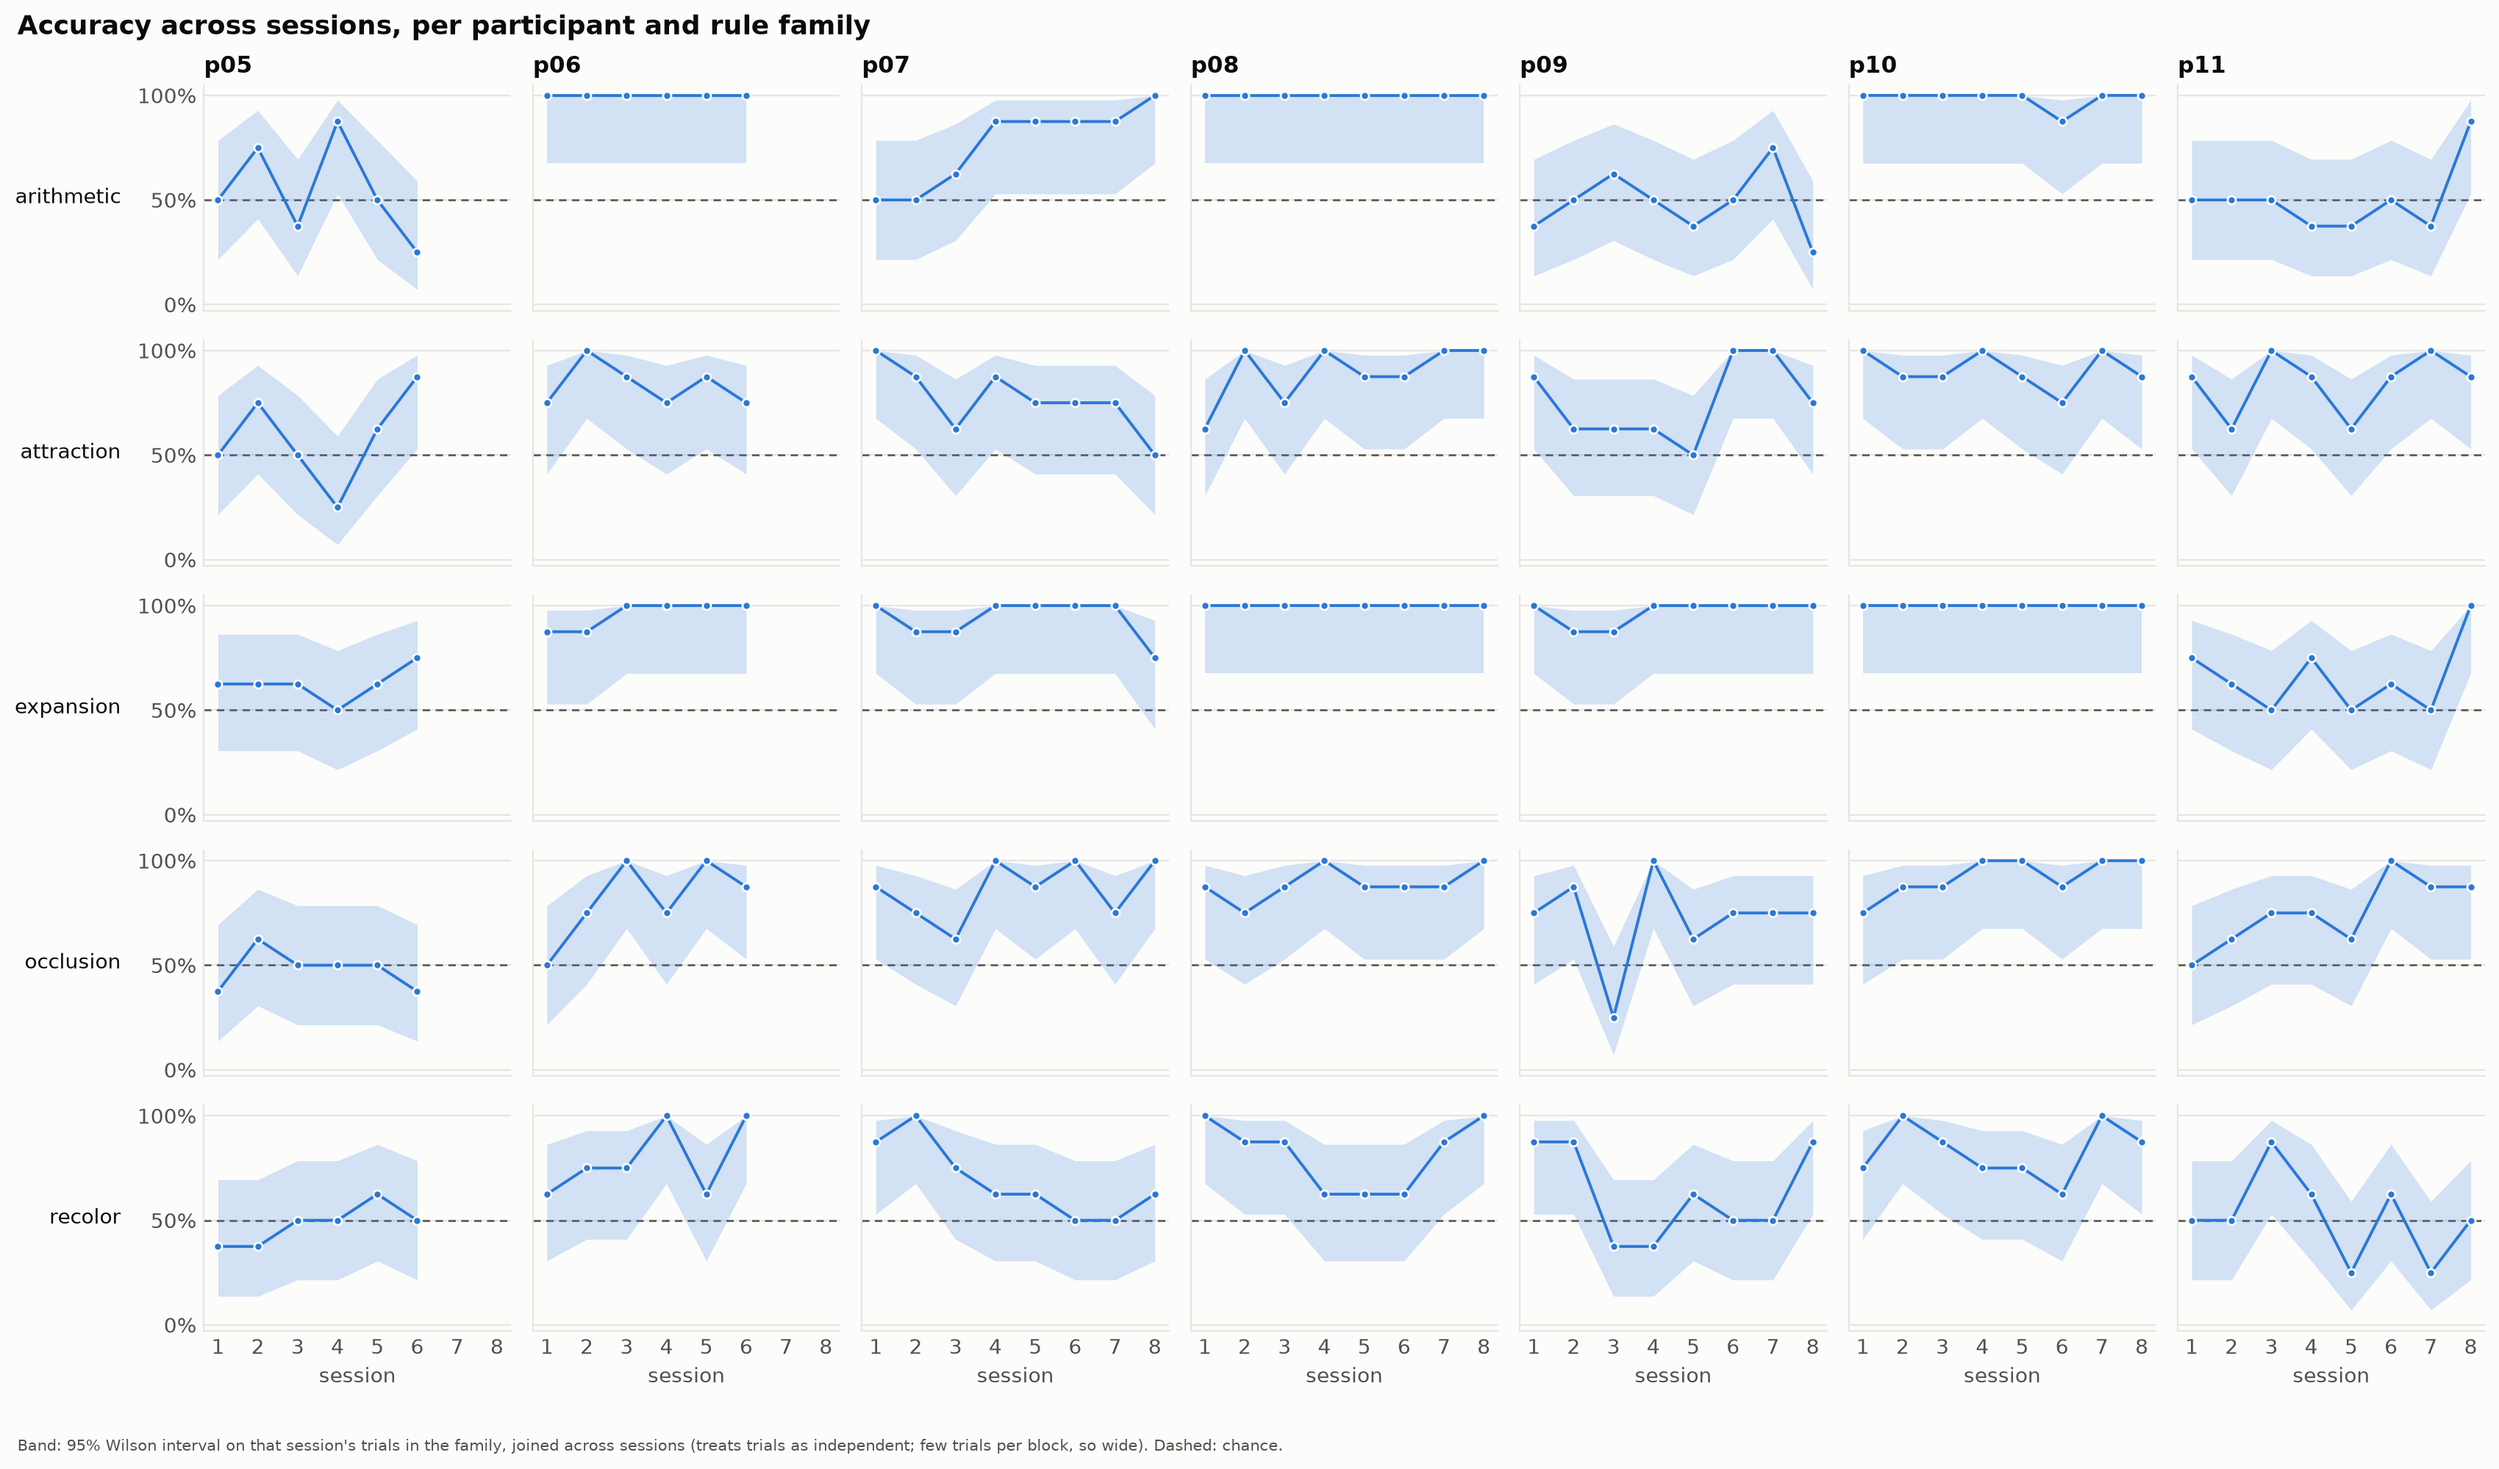
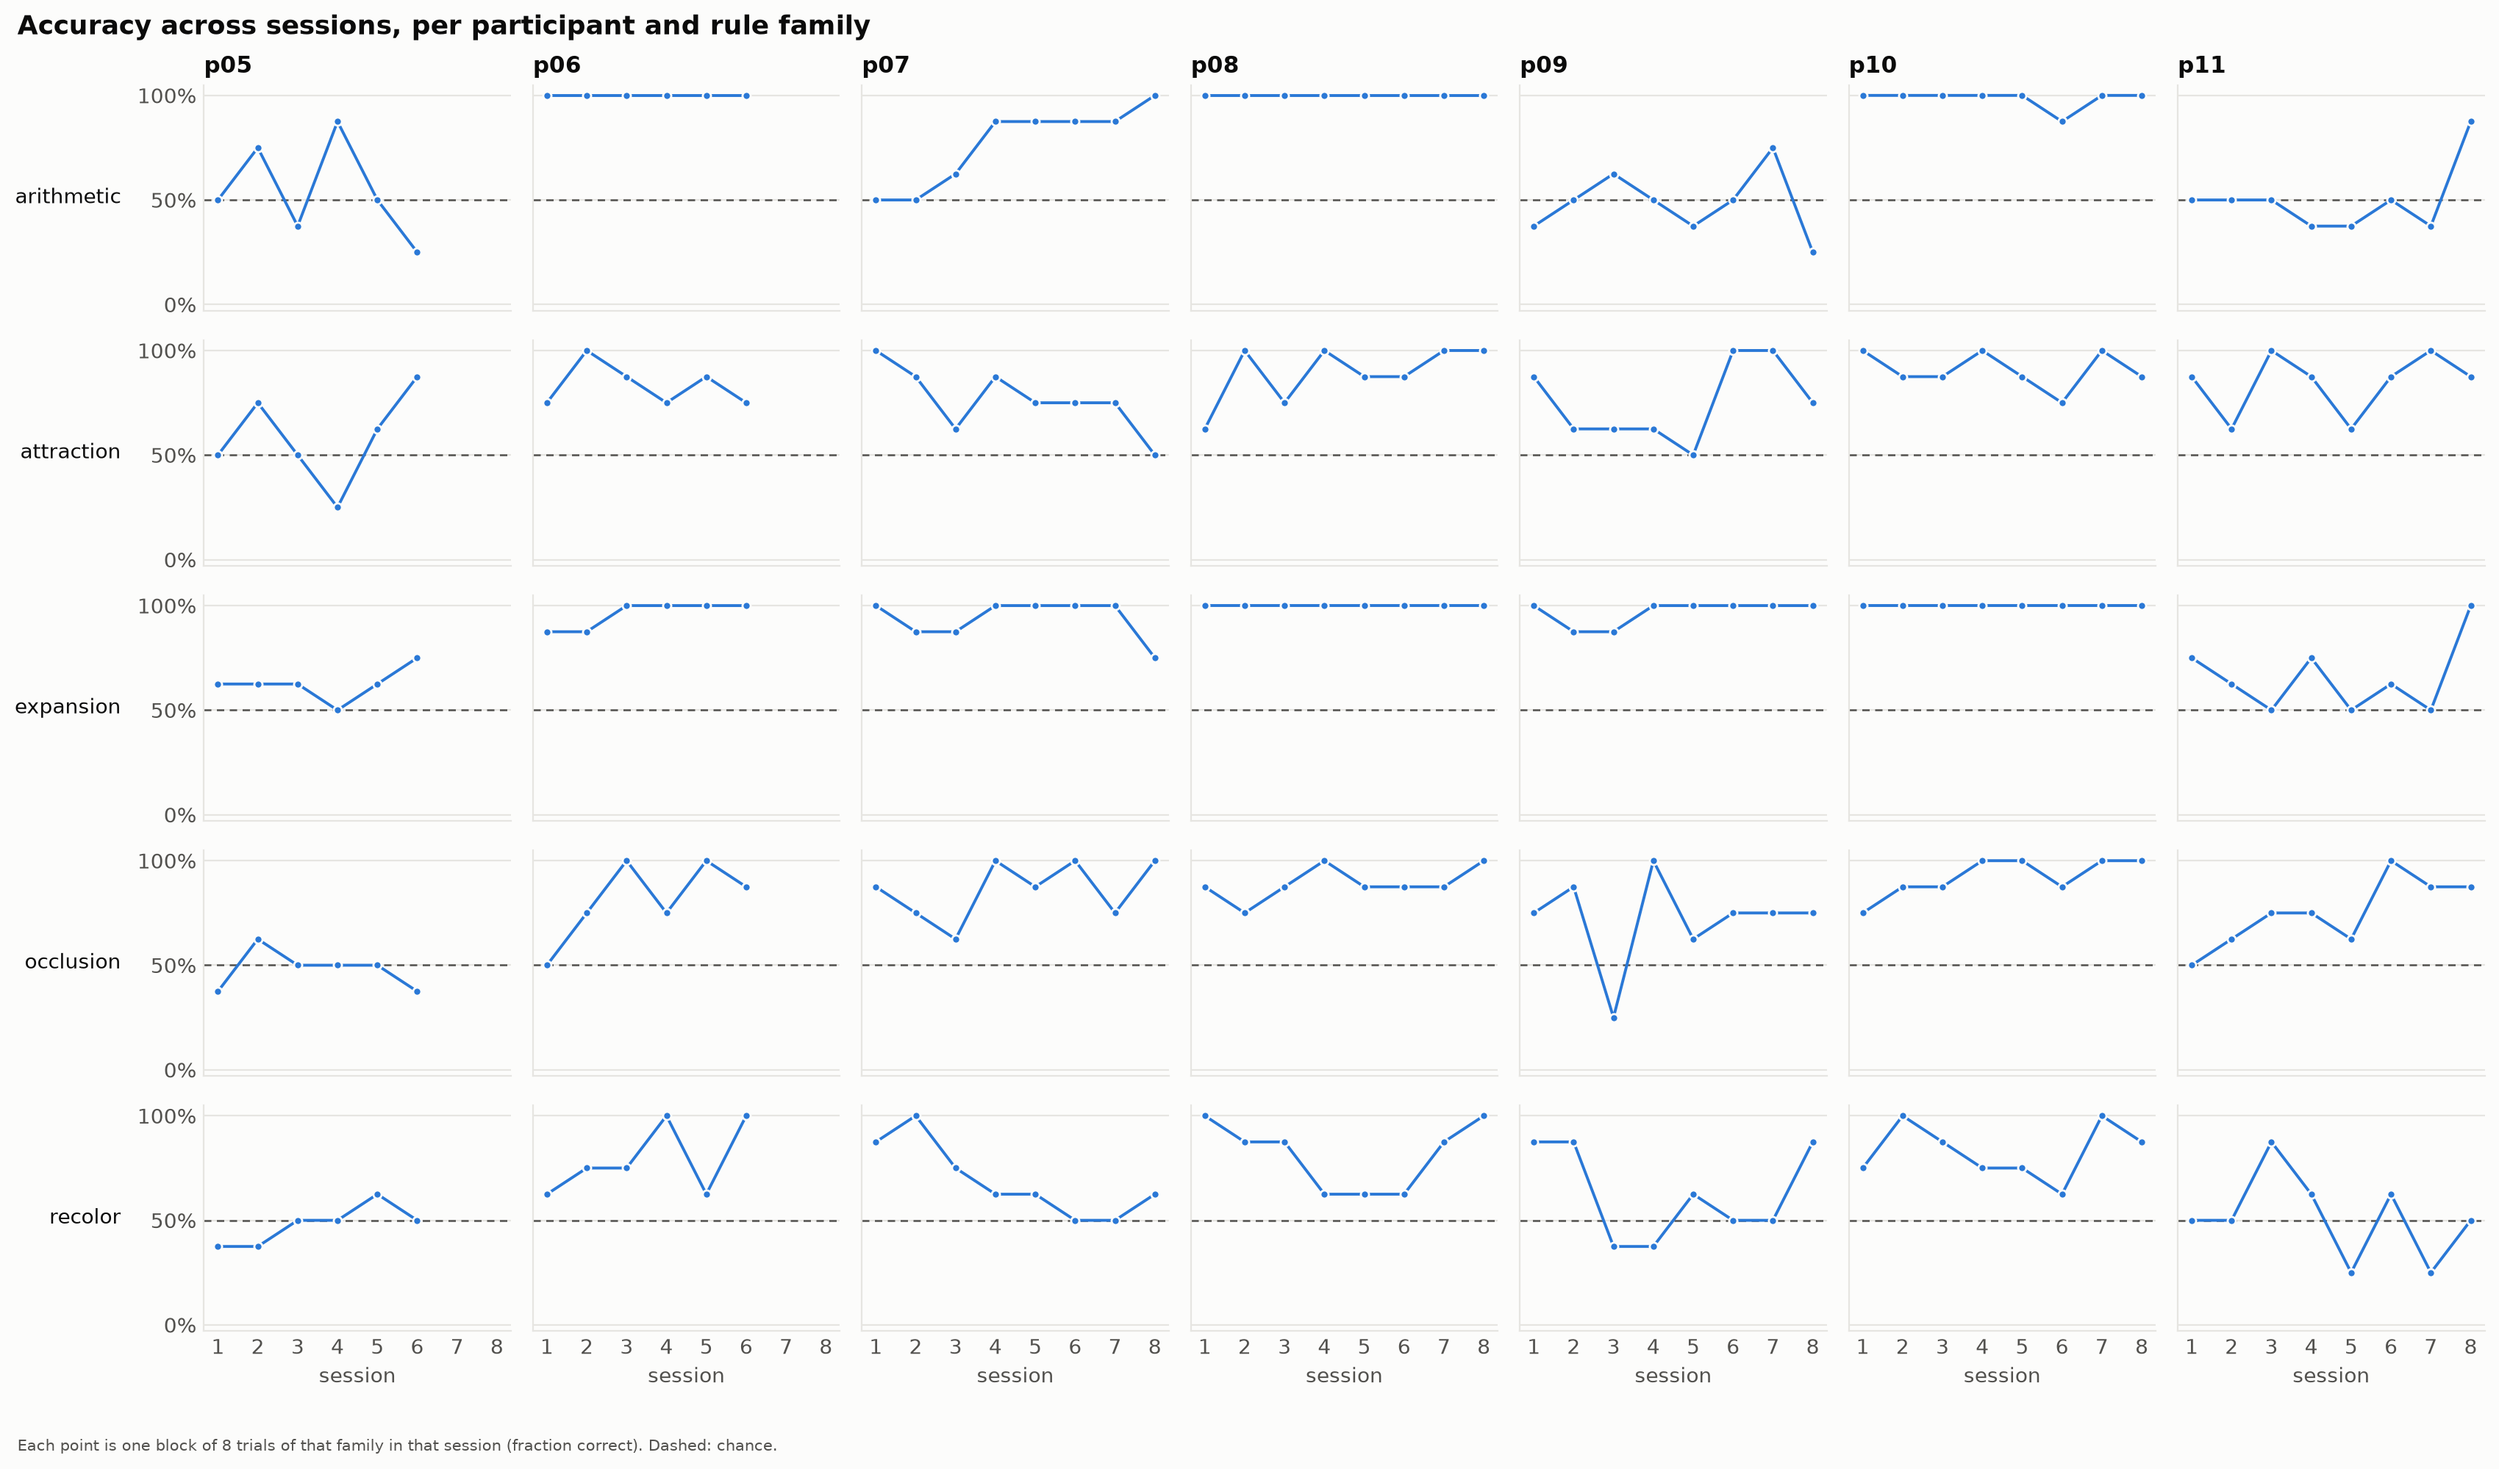
new plots arrived

diff --git a/analysis/behavior/plots.py b/analysis/behavior/plots.py
@@ -8,7 +8,7 @@ File names:  <scope>_<metric>_by_<x>[_family].png
   scope   group    one value per participant, summarised ACROSS participants
           subject  one panel / bar / row per participant
   metric  accuracy | rt (reaction time)
-  x       overall | session | session_family | family | rule
+  x       overall | session | session_family | family (accuracy only) | rule (accuracy only)
  
 Confidence intervals
   group plots      mean +- t-interval across participants (participant = unit)
@@ -31,7 +31,6 @@ import matplotlib.patheffects as pe
 import matplotlib.pyplot as plt
 import numpy as np
 import pandas as pd
-from matplotlib.colors import LinearSegmentedColormap
 from matplotlib.lines import Line2D
 from matplotlib.transforms import blended_transform_factory
 from scipy import stats
@@ -45,8 +44,6 @@ FAMILY_ORDER = ["arithmetic", "attraction", "expansion", "occlusion", "recolor"]
 SURFACE, INK, INK2, GRID = "#fcfcfb", "#0b0b0b", "#52514e", "#e6e5e1"
 BLUE = "#2a78d6"    # accuracy
 ORANGE = "#eb6834"  # reaction time
-SEQ_BLUE = ["#cde2fb", "#9ec5f4", "#6da7ec", "#3987e5", "#256abf", "#184f95", "#0d366b"]
-CMAP = LinearSegmentedColormap.from_list("seq_blue", SEQ_BLUE)
 DASH = (0, (4, 3))
 LEGEND_STYLE = dict(frameon=False, labelcolor=INK2, fontsize=8.5, handlelength=1.8, columnspacing=1.2)
  
@@ -194,12 +191,13 @@ def pct_axis(ax, low: float = 0.0, step: float = 0.25, ylim: tuple[float, float]
  
 def band_line(ax, x, y, lo, hi, color, *, line_width=2.0, marker_size=5.0, edge_width=1.2,
               ceiling=None) -> None:
-    """A line with markers and a filled band joining the lower and upper interval ends."""
-    lo = np.maximum(np.asarray(lo, float), 0)
-    hi = np.asarray(hi, float)
-    if ceiling is not None:
-        hi = np.minimum(hi, ceiling)
-    ax.fill_between(x, lo, hi, color=color, alpha=0.2, linewidth=0, zorder=2)
+    """A line with markers; with `lo`/`hi`, also a filled band joining the interval ends."""
+    if lo is not None:
+        lo = np.maximum(np.asarray(lo, float), 0)
+        hi = np.asarray(hi, float)
+        if ceiling is not None:
+            hi = np.minimum(hi, ceiling)
+        ax.fill_between(x, lo, hi, color=color, alpha=0.2, linewidth=0, zorder=2)
     ax.plot(x, y, color=color, linewidth=line_width, marker="o", markersize=marker_size,
             markeredgecolor=SURFACE, markeredgewidth=edge_width, zorder=3)
  
@@ -337,9 +335,9 @@ def plot_group_sessions(table: pd.DataFrame, metric: Metric, out: Path, by_famil
 # --------------------------------------------------------------------------- #
 def plot_subject_sessions(table: pd.DataFrame, metric: Metric, out: Path, fname: str, note: str,
                           by_family: bool = False) -> None:
-    """One value per session with its 95 % interval ends joined into a band.
- 
-    Default: one panel per participant. `by_family`: participants as columns, rule families as rows.
+    """One value per session. Default: one panel per participant with its 95 % interval joined
+    into a band. `by_family`: participants as columns, rule families as rows, plain points
+    (one block of 8 trials each, so an interval would add nothing).
     """
     participants = sorted(table["participant"].unique())
     families = family_list(table) if by_family else [None]
@@ -367,7 +365,8 @@ def plot_subject_sessions(table: pd.DataFrame, metric: Metric, out: Path, fname:
         one = one.sort_values("session")
         if metric.is_pct:
             add_chance_line(ax, 0.9 if by_family else 1.0)
-        band_line(ax, one["session"], one[metric.value], one[metric.lo], one[metric.hi], metric.color,
+        band = None if by_family else (one[metric.lo], one[metric.hi])
+        band_line(ax, one["session"], one[metric.value], *(band or (None, None)), metric.color,
                   ceiling=1.0 if metric.is_pct else None, **style)
         style_axes(ax)
         if family is None or family == families[0]:
@@ -382,7 +381,7 @@ def plot_subject_sessions(table: pd.DataFrame, metric: Metric, out: Path, fname:
         else:
             pct_axis(first, low=0.25)
     else:
-        first.set_ylim(0, np.nanmax(table[metric.hi]) * 1.08)
+        first.set_ylim(0, np.nanmax(table[metric.value if by_family else metric.hi]) * 1.08)
     first.set_xticks(range(1, int(table["session"].max()) + 1))
     for ax in axes[-1]:
         ax.set_xlabel("session")
@@ -395,8 +394,10 @@ def plot_subject_sessions(table: pd.DataFrame, metric: Metric, out: Path, fname:
  
  
 WILSON_NOTE = "Band: 95% Wilson interval on that session's trials (treats trials as independent). Dashed: chance."
-WILSON_FAMILY_NOTE = ("Band: 95% Wilson interval on that session's trials in the family, joined across sessions "
-                      "(treats trials as independent; few trials per block, so wide). Dashed: chance.")
+FAMILY_BLOCK_NOTE = {
+    "accuracy": "Each point is one block of 8 trials of that family in that session (fraction correct). Dashed: chance.",
+    "rt": "Each point is one block of 8 trials of that family in that session (median RT of answered trials).",
+}
 BOOTSTRAP_NOTE = "Band: 95% bootstrap interval of the median over that session's answered trials."
  
  
@@ -448,53 +449,6 @@ def plot_group_accuracy_by_family(table: pd.DataFrame, out: Path) -> None:
     ], loc="lower left", ncol=3, bbox_to_anchor=(0.0, -0.2), **{**LEGEND_STYLE, "fontsize": 9})
     ax.set_title("Accuracy by rule family", pad=10)
     finish(fig, out, "group_accuracy_by_family.png", rect=(0, 0, 1, 1))
- 
- 
-# --------------------------------------------------------------------------- #
-# subject_rt_by_family.png (heatmap)                                          #
-# --------------------------------------------------------------------------- #
-def text_color_on(value: float, vmin: float, vmax: float) -> str:
-    """White ink on dark cells, dark ink on light cells."""
-    return "white" if (value - vmin) / (vmax - vmin) > 0.55 else INK
- 
- 
-def draw_heatmap(ax, matrix: pd.DataFrame, vmin: float, vmax: float, fmt, fontsize: int = 10):
-    data = np.ma.masked_invalid(matrix.values.astype(float))
-    cmap = CMAP.copy()
-    cmap.set_bad(SURFACE)
-    image = ax.imshow(data, cmap=cmap, vmin=vmin, vmax=vmax, aspect="auto")
-    n_rows, n_cols = matrix.shape
-    ax.set_xticks(range(n_cols), matrix.columns)
-    ax.set_yticks(range(n_rows), matrix.index)
-    ax.tick_params(length=0)
-    for spine in ax.spines.values():
-        spine.set_visible(False)
-    ax.set_xticks(np.arange(-0.5, n_cols), minor=True)  # 2px gaps between cells
-    ax.set_yticks(np.arange(-0.5, n_rows), minor=True)
-    ax.grid(which="minor", color=SURFACE, linewidth=2)
-    ax.tick_params(which="minor", length=0)
-    for i in range(n_rows):
-        for j in range(n_cols):
-            v = matrix.values[i, j]
-            if np.isnan(v):
-                ax.text(j, i, "–", ha="center", va="center", color=INK2, fontsize=fontsize)
-            else:
-                ax.text(j, i, fmt(v), ha="center", va="center",
-                        color=text_color_on(v, vmin, vmax), fontsize=fontsize)
-    return image
- 
- 
-def plot_subject_rt_by_family(table: pd.DataFrame, out: Path) -> None:
-    families = family_list(table)
-    matrix = table.pivot(index="participant", columns="family", values="rt_median")[families]
-    fig, ax = plt.subplots(figsize=(1.5 * len(families) + 1.5, 0.6 * len(matrix) + 1.6))
-    image = draw_heatmap(ax, matrix, 1.0, 7.0, lambda v: f"{v:.1f}s")
-    colorbar = fig.colorbar(image, ax=ax, fraction=0.04, pad=0.02)
-    colorbar.set_label("seconds", color=INK2)
-    colorbar.outline.set_visible(False)
-    colorbar.ax.tick_params(length=0, colors=INK2)
-    ax.set_title("Median RT by rule family (s)", pad=10)
-    finish(fig, out, "subject_rt_by_family.png", rect=(0, 0, 1, 1))
  
  
 # --------------------------------------------------------------------------- #
@@ -578,25 +532,24 @@ def main() -> None:
     trials = pd.read_csv(args.data)
     tables = {name: summarise(trials, by) for name, by in GROUPINGS.items()}
     session_with_ci = add_subject_intervals(tables["session"])
-    session_family_with_ci = add_subject_intervals(tables["session_family"])
     session_rt_with_ci = bootstrap_median_rt(trials)
  
     # subject level
     plot_subject_overall(tables["overall"], args.out)
     plot_subject_sessions(session_with_ci, ACCURACY, args.out, "subject_accuracy_by_session.png", WILSON_NOTE)
     plot_subject_sessions(session_rt_with_ci, RT, args.out, "subject_rt_by_session.png", BOOTSTRAP_NOTE)
-    plot_subject_sessions(session_family_with_ci, ACCURACY, args.out,
-                          "subject_accuracy_by_session_family.png", WILSON_FAMILY_NOTE, by_family=True)
-    plot_subject_rt_by_family(tables["family"], args.out)
+    for metric, name in ((ACCURACY, "accuracy"), (RT, "rt")):
+        plot_subject_sessions(tables["session_family"], metric, args.out,
+                              f"subject_{name}_by_session_family.png", FAMILY_BLOCK_NOTE[name], by_family=True)
  
     # group level (participant = unit, band = 95 % t-interval across participants)
     plot_group_sessions(tables["session"], ACCURACY, args.out)
     plot_group_sessions(tables["session"], RT, args.out)
     plot_group_sessions(tables["session_family"], ACCURACY, args.out, by_family=True)
+    plot_group_sessions(tables["session_family"], RT, args.out, by_family=True)
     plot_group_accuracy_by_family(tables["family"], args.out)
     plot_group_accuracy_by_rule(tables["rule"], args.out)
  
  
 if __name__ == "__main__":
     main()
- 
